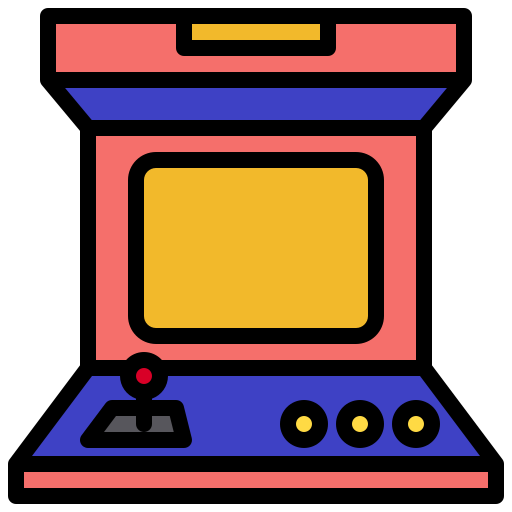
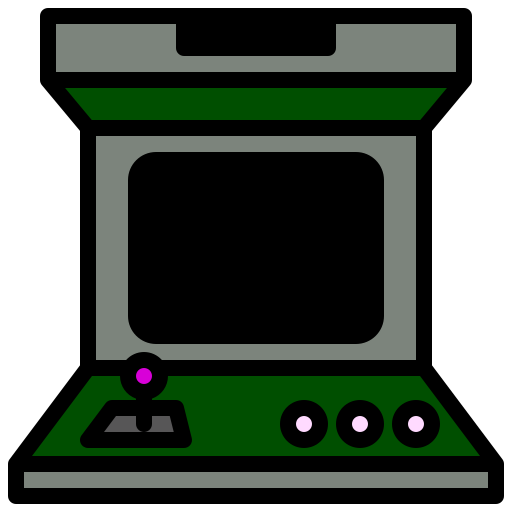
UI changes

diff --git a/components/micro/Games.js b/components/micro/Games.js
@@ -1,43 +1,50 @@
 import React from "react";
 import Image from "next/image";
 import Link from "next/link";
+import ArcadeBoard from "../Herop/ArcadeBoard";
 const Games = () => {
   const Data = [
     {
       name: "Tower Defence",
       img: "/tower.jpg",
       link: "/Games/TowerDefence",
-      desc: "Games where the goal is to defend your base by obstructing enemy.",
+      desc: "Games where the goal is to defend your base by enemy.",
+      arcadeMachineImage : "/a6.png"
     },
     {
       name: "Mole Smash",
       img: "/molegame.jpeg",
       link: "/Games/MoleSmash",
       desc: "Control a spaceship and defend Earth from waves of alien.",
+      arcadeMachineImage : "/a2.png"
     },
     {
       name: "Skyline Skaddle",
       img: "/skygame.jpg",
       link: "/Games/SkylineSkaddle",
       desc: "Ready to race against the best in this high-speed car game!",
+      arcadeMachineImage : "/a3.png"
     },
     {
       name: "Four In Line",
       img: "/fourinline.png",
       link: "/Games/FourInLine",
       desc: "A classic strategy game of aligning four tokens in a row.",
+      arcadeMachineImage : "/a4.png"
     },
     {
       name: "Tile Survive",
-      img: "/sample4.jpg",
+      img: "/tile2.jpg",
       link: "/Games/TileSurvive",
       desc: "Checkmate your way to victory in this classic chess game!",
+      arcadeMachineImage : "/a5.png"
     },
     {
       name: "Coin Flip",
       img: "/coinflip.jpg",
       link: "/Games/CoinFlip",
       desc: "A retro coin flip game of digital twist on a classic 50/50 chance.",
+      arcadeMachineImage : "/a8.png"
     },
   ];
   return (
@@ -49,40 +56,79 @@ const Games = () => {
       <div>
         <div className="p-4 grid grid-cols-1 sm:grid-cols-1 md:grid-cols-1 lg:grid-cols-2 xl:grid-cols-3 gap-5">
           {Data.map((item) => {
+            
             return (
-              <div className="flex flex-col justify-center" key={item.name}>
-                <div>
-                  <Link
-                    href={item.link}
-                    className="flex flex-col items-center bg-white border border-gray-200 rounded-lg shadow md:flex-row md:max-w-xl hover:bg-gray-100 dark:border-gray-700 dark:bg-gray-950 dark:hover:bg-gray-700"
-                  >
-                    <img
-                      className="object-cover w-64 h-6w-64 rounded-t-lg md:h-auto md:w-40 md:rounded-none md:rounded-l-lg"
-                      src={item.img}
-                      alt="Gamne Image"
-                    />
-                    <div className="flex flex-col justify-between p-4 leading-normal">
-                      <h5 className="mb-2 text-4xl font-abc font-bold tracking-tight text-gray-900 dark:text-white">
-                        {item.name}
-                      </h5>
+              <>
+              
+              <div className="relative ">
+              <div className="flex justify-center">
+              <div className="relative h-28 w-72 mb-3 bg-transparent flex items-center justify-center">
+                {/* Rectangle */}
+                <div className="mt-3 flex justify-center items-center absolute top-0 left-0 right-0 bottom-0">
+                    <div className='h-max flex justify-center items-center'>
+                        <h1 className='text-5xl font-abc text-yellow-300'>{item.name} </h1>
                     </div>
-                  </Link>
-                </div>
-                <div className="hidden lg:block mt-5">
+                
+
+                {/* Blinking lights at corners */}
+                <div className="rounded-full absolute top-0 left-0 w-4 h-4 bg-red-500 animate-blink"></div>
+                <div className="rounded-full absolute top-0 left-1/4 w-4 h-4 bg-purple-500 animate-blink"></div>
+                <div className="rounded-full absolute top-0 left-2/4 w-4 h-4 bg-cyan-400 animate-blink"></div>
+                <div className="rounded-full absolute top-0 left-3/4 w-4 h-4 bg-yellow-300 animate-blink"></div>
+
+                <div className="rounded-full absolute top-0 right-0 w-4 h-4 bg-teal-400 animate-blink"></div>
+                <div className="rounded-full absolute top-1/2 right-0 w-4 h-4 bg-orange-400 animate-blink"></div>
+                <div className="rounded-full absolute top-1/4 right-0 w-4 h-4 bg-blue-500 animate-blink"></div>
+                {/* <div className="rounded-full absolute bottom-1 right-0 w-4 h-4 bg-blue-500 animate-blink"></div> */}
+
+                <div className="rounded-full absolute top-1/4 left-0 w-4 h-4 bg-fuchsia-500 animate-blink"></div>
+                <div className="rounded-full absolute top-2/4 left-0 w-4 h-4 bg-pink-600 animate-blink"></div>
+                <div className="rounded-full absolute bottom-0 left-0 w-4 h-4 bg-green-500 animate-blink"></div>
+                {/* <div className="rounded-full absolute top-3/4 left-0 w-4 h-4 bg-green-500 animate-blink"></div> */}
+
+
+                <div className="rounded-full absolute bottom-0 left-1/4 transform -translate-x-1/2 w-4 h-4 bg-red-800 animate-blink"></div>
+                <div className="rounded-full absolute bottom-0 left-1/2 transform -translate-x-1/2 w-4 h-4 bg-blue-300 animate-blink"></div>
+                <div className="rounded-full absolute bottom-0 right-1/2 transform translate-x-1/2 w-4 h-4 bg-green-400 animate-blink"></div>
+                <div className="rounded-full absolute bottom-0 right-1/4 transform translate-x-1/2 w-4 h-4 bg-yellow-200 animate-blink"></div>
+                <div className="rounded-full absolute bottom-0 right-0 w-4 h-4 bg-yellow-500 animate-blink"></div>
+            </div>
+            </div>
+            </div>
+                    <div className='flex justify-center'>
+
+                        <img
+                            src={item.arcadeMachineImage}
+                            alt="Image 1"
+                            className="w-50 h-50 object-cover"
+                        />
+                    </div>
+                    <div className=''>
+                        {/* <img
+                            src="/display.png"
+                            alt="Image 3"
+                            className="absolute top-0 left-1/2 transform -translate-x-1/2 w-40 h-32 object-cover z-30"
+                        /> */}
+                        <img
+                            src={item.img}
+                            alt="Image 2"
+                            className="mt-32 lg:mt-12  rounded-2xl absolute top-1/3 left-1/2 transform -translate-x-1/2 w-24 h-24 lg:w-24 lg:h-24 -translate-y-1/2 object-cover z-20"
+                        />
+
+                    </div>
+                    <div className="hidden lg:block mt-5">
                   <div className="block max-w-sm p-6 bg-white border border-gray-200 rounded-lg shadow hover:bg-gray-100 dark:bg-gray-950 dark:border-gray-700 dark:hover:bg-gray-700">
-                    <p className="font-normal text-3xl font-abc text-gray-700 dark:text-gray-400">
-                      {item.desc}
+                    <p className="text-3xl font-abc text-gray-700 dark:text-gray-400">
+                     {item.desc}
                     </p>
-                    
                     <button className="mt-5 px-3 text-4xl font-abc bg-transparent  hover:bg-blue-500 text-white font-semibold hover:text-white  border border-white hover:border-transparent rounded">
-                      <Link href={item.link}>
-                        PLay Now
-                      </Link>
+                      <a href={item.link}>Play Now</a>
                     </button>
-                    
                   </div>
                 </div>
-              </div>
+                </div>
+                </>
+             
             );
           })}
         </div>

diff --git a/components/Herop/UpcomingGames.js b/components/Herop/UpcomingGames.js
@@ -1,31 +1,33 @@
 import React from 'react'
 
 const UpcomingGames = () => {
-    const Data = [
-        {
-          name: "Space Invaders",
-          img: "/spacenew.webp",
-          link: "/Games/SpaceInvaders",
-          desc : "Control a spaceship and defend Earth from waves of alien." 
-        },
-        {
-          name: "Chess",
-          img: "/chess.avif",
-          link: "/Games/Chess",
-          desc : "Checkmate your way to victory in this classic chess game!"
-        },
-        
-        
-        {
-          name: "Car Race",
-          img: "/car.jpg",
-          link: "/Games/Carrace",
-          desc : "Ready to race against the best in this high-speed car game!"
-        },
-      ];
+  const Data = [
+    {
+      name: "Space Invaders",
+      img: "/spacenew.webp",
+      link: "/Games/SpaceInvaders",
+      desc: "Control a spaceship and defend Earth from waves of alien.",
+      arcadeMachineImage: "/a3.png"
+    },
+    {
+      name: "Chess",
+      img: "/chess.avif",
+      link: "/Games/Chess",
+      desc: "Checkmate your way to victory in this classic chess game!",
+      arcadeMachineImage: "/a6.png"
+    },
+    {
+      name: "Car Race",
+      img: "/car.jpg",
+      link: "/Games/Carrace",
+      desc: "Ready to race against the best in this high-speed car game!",
+      arcadeMachineImage: "/a1.png"
+
+    },
+  ];
   return (
     <>
-          <h1 className="flex justify-center text-5xl font-abc text-white ml-10 m-4 font-bold">
+      <h1 className="flex justify-center text-5xl font-abc text-white ml-10 m-4 font-bold">
         Upcoming Games🤘
       </h1>
 
@@ -33,28 +35,66 @@ const UpcomingGames = () => {
         <div className="p-3 grid grid-cols-1 sm:grid-cols-1 md:grid-cols-1 lg:grid-cols-2 xl:grid-cols-3 gap-5">
           {Data.map((item) => {
             return (
-              <div className="flex flex-col" key={item.name}>
-                <div>
-                  <a
-                    href="#"
-                    className="flex flex-col items-center bg-white border border-gray-200 rounded-lg shadow md:flex-row md:max-w-xl hover:bg-gray-100 dark:border-gray-700 dark:bg-gray-950 dark:hover:bg-gray-700"
-                  >
-                    <img
-                      className="object-cover w-64 h-64 rounded-t-lg md:h-auto md:w-40 md:rounded-none md:rounded-l-lg"
-                      src={item.img}
-                      alt="Gamne Image"
-                    />
-                    <div className="flex flex-col justify-between p-4">
-                      <h5 className="mb-2 text-4xl font-abc font-bold tracking-tight text-gray-900 dark:text-white">
-                        {item.name}
-                      </h5>
+              <div className="relative ">
+                <div className="flex justify-center">
+                  <div className="relative h-28 w-72 mb-3 bg-transparent flex items-center justify-center">
+                    {/* Rectangle */}
+                    <div className="mt-3 flex justify-center items-center absolute top-0 left-0 right-0 bottom-0">
+                      <div className='h-max flex justify-center items-center'>
+                        <h1 className='text-5xl font-abc text-orange-500'>{item.name} </h1>
+                      </div>
+
+
+                      {/* Blinking lights at corners */}
+                      <div className="rounded-full absolute top-0 left-0 w-4 h-4 bg-orange-500 animate-blink"></div>
+                      <div className="rounded-full absolute top-0 left-1/4 w-4 h-4 bg-orange-500 animate-blink"></div>
+                      <div className="rounded-full absolute top-0 left-2/4 w-4 h-4 bg-orange-500 animate-blink"></div>
+                      <div className="rounded-full absolute top-0 left-3/4 w-4 h-4 bg-orange-500 animate-blink"></div>
+
+                      <div className="rounded-full absolute top-0 right-0 w-4 h-4 bg-orange-500 animate-blink"></div>
+                      <div className="rounded-full absolute top-1/2 right-0 w-4 h-4 bg-orange-500 animate-blink"></div>
+                      <div className="rounded-full absolute top-1/4 right-0 w-4 h-4 bg-orange-500 animate-blink"></div>
+                      {/* <div className="rounded-full absolute bottom-1 right-0 w-4 h-4 bg-blue-500 animate-blink"></div> */}
+
+                      <div className="rounded-full absolute top-1/4 left-0 w-4 h-4 bg-orange-500 animate-blink"></div>
+                      <div className="rounded-full absolute top-2/4 left-0 w-4 h-4 bg-orange-500 animate-blink"></div>
+                      <div className="rounded-full absolute bottom-0 left-0 w-4 h-4 bg-orange-500 animate-blink"></div>
+                      {/* <div className="rounded-full absolute top-3/4 left-0 w-4 h-4 bg-green-500 animate-blink"></div> */}
+
+
+                      <div className="rounded-full absolute bottom-0 left-1/4 transform -translate-x-1/2 w-4 h-4 bg-orange-500 animate-blink"></div>
+                      <div className="rounded-full absolute bottom-0 left-1/2 transform -translate-x-1/2 w-4 h-4 bg-orange-500 animate-blink"></div>
+                      <div className="rounded-full absolute bottom-0 right-1/2 transform translate-x-1/2 w-4 h-4 bg-orange-500 animate-blink"></div>
+                      <div className="rounded-full absolute bottom-0 right-1/4 transform translate-x-1/2 w-4 h-4 bg-orange-500 animate-blink"></div>
+                      <div className="rounded-full absolute bottom-0 right-0 w-4 h-4 bg-orange-500 animate-blink"></div>
                     </div>
-                  </a>
+                  </div>
+                </div>
+                <div className='flex justify-center'>
+
+                  <img
+                    src={item.arcadeMachineImage}
+                    alt="Image 1"
+                    className="w-50 h-50 object-cover"
+                  />
+                </div>
+                <div className=''>
+                  {/* <img
+                            src="/display.png"
+                            alt="Image 3"
+                            className="absolute top-0 left-1/2 transform -translate-x-1/2 w-40 h-32 object-cover z-30"
+                        /> */}
+                  <img
+                    src={item.img}
+                    alt="Image 2"
+                    className="mt-32 lg:mt-12  rounded-2xl absolute top-1/3 left-1/2 transform -translate-x-1/2 w-24 h-24 lg:w-24 lg:h-24 -translate-y-1/2 object-cover z-20"
+                  />
+
                 </div>
                 <div className="hidden lg:block mt-5">
                   <div className="block max-w-sm p-6 bg-white border border-gray-200 rounded-lg shadow hover:bg-gray-100 dark:bg-gray-950 dark:border-gray-700 dark:hover:bg-gray-700">
                     <p className="text-3xl font-abc text-gray-700 dark:text-gray-400">
-                     {item.desc}
+                      {item.desc}
                     </p>
                     <button className="mt-5 px-3 text-4xl font-abc bg-transparent  hover:bg-blue-500 text-white font-semibold hover:text-white  border border-white hover:border-transparent rounded">
                       <a href={item.link}>Play Now</a>

diff --git a/components/Herop/CadeCard.js b/components/Herop/CadeCard.js
@@ -16,6 +16,8 @@ const CadeCard = () => {
 
     return (
         <>
+        <div>
+        <h1 className='flex justify-center text-6xl text-orange-400 font-abc'>Arcade Card</h1>
             <div class="max-h-60 border-2 border-gray-200 relative bg-center bg-[url('/ig.png')] object-center bg-no-repeat lg:h-1/2 p-6 mt-5 from-gray-300 to-purple-800 rounded-lg shadow dark:bg-gray-800 dark:border-gray-700">
                 <div className='flex flex-row'>
                     <div className='w-4/5'>
@@ -33,6 +35,7 @@ const CadeCard = () => {
                         Ben zonak <span className='text-2xl'>(member since : 12/24)</span>
                     </h1>
                 </div>
+            </div>
             </div>
         </>
     )

diff --git a/components/Herop/ArcadeMachine.js b/components/Herop/ArcadeMachine.js
@@ -46,7 +46,7 @@ export default function ArcadeMachine({ images }) {
                             className="absolute top-0 left-1/2 transform -translate-x-1/2 w-40 h-32 object-cover z-30"
                         /> */}
                         <img
-                            src="/sft.png"
+                            src="/molegame.jpeg"
                             alt="Image 2"
                             className="mt-12 lg:mt-20  rounded-2xl absolute top-1/3 left-1/2 transform -translate-x-1/2 w-24 h-24 lg:w-32 lg:h-32 -translate-y-1/2 object-cover z-20"
                         />

diff --git a/components/Herop/ArcadeBoard.js b/components/Herop/ArcadeBoard.js
@@ -7,7 +7,7 @@ const ArcadeBoard = () => {
                 {/* Rectangle */}
                 <div className="flex justify-center items-center absolute top-0 left-0 right-0 bottom-0">
                     <div className='h-max flex justify-center items-center'>
-                        <h1 className='text-5xl font-abc text-yellow-300'>Four In Line </h1>
+                        <h1 className='text-5xl font-abc text-yellow-300'>Game Of The Week </h1>
                     </div>
                 
 
